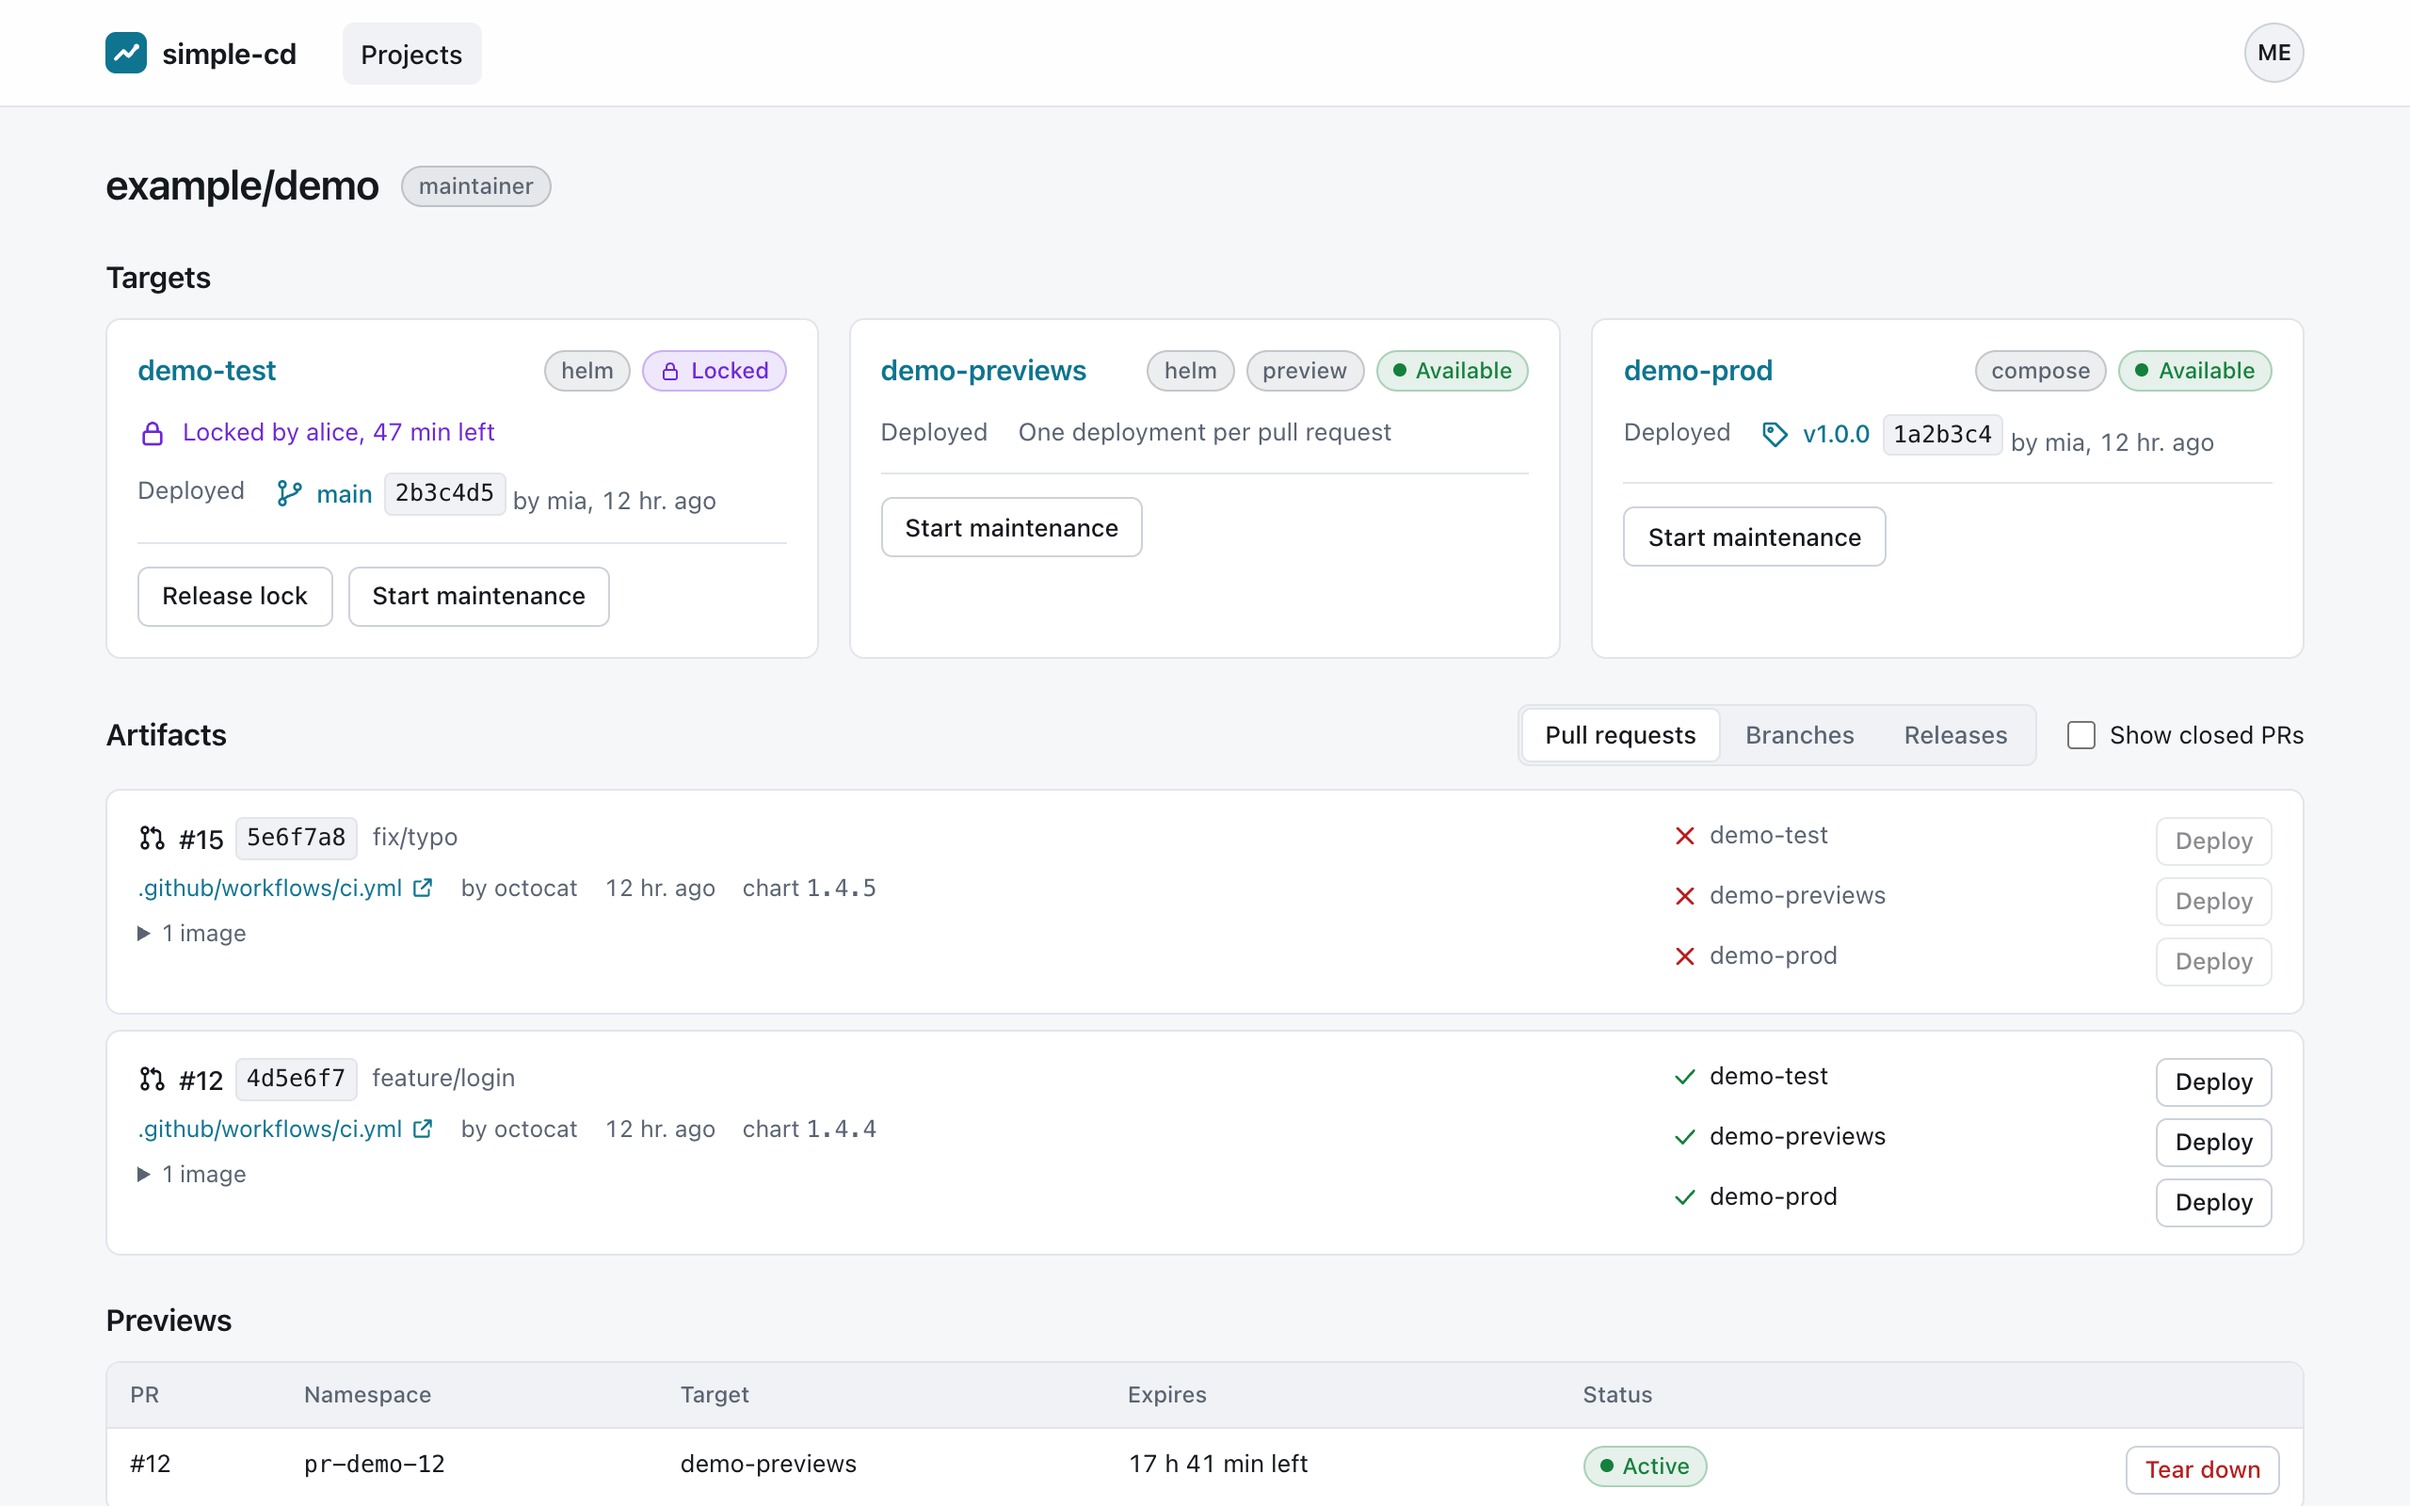
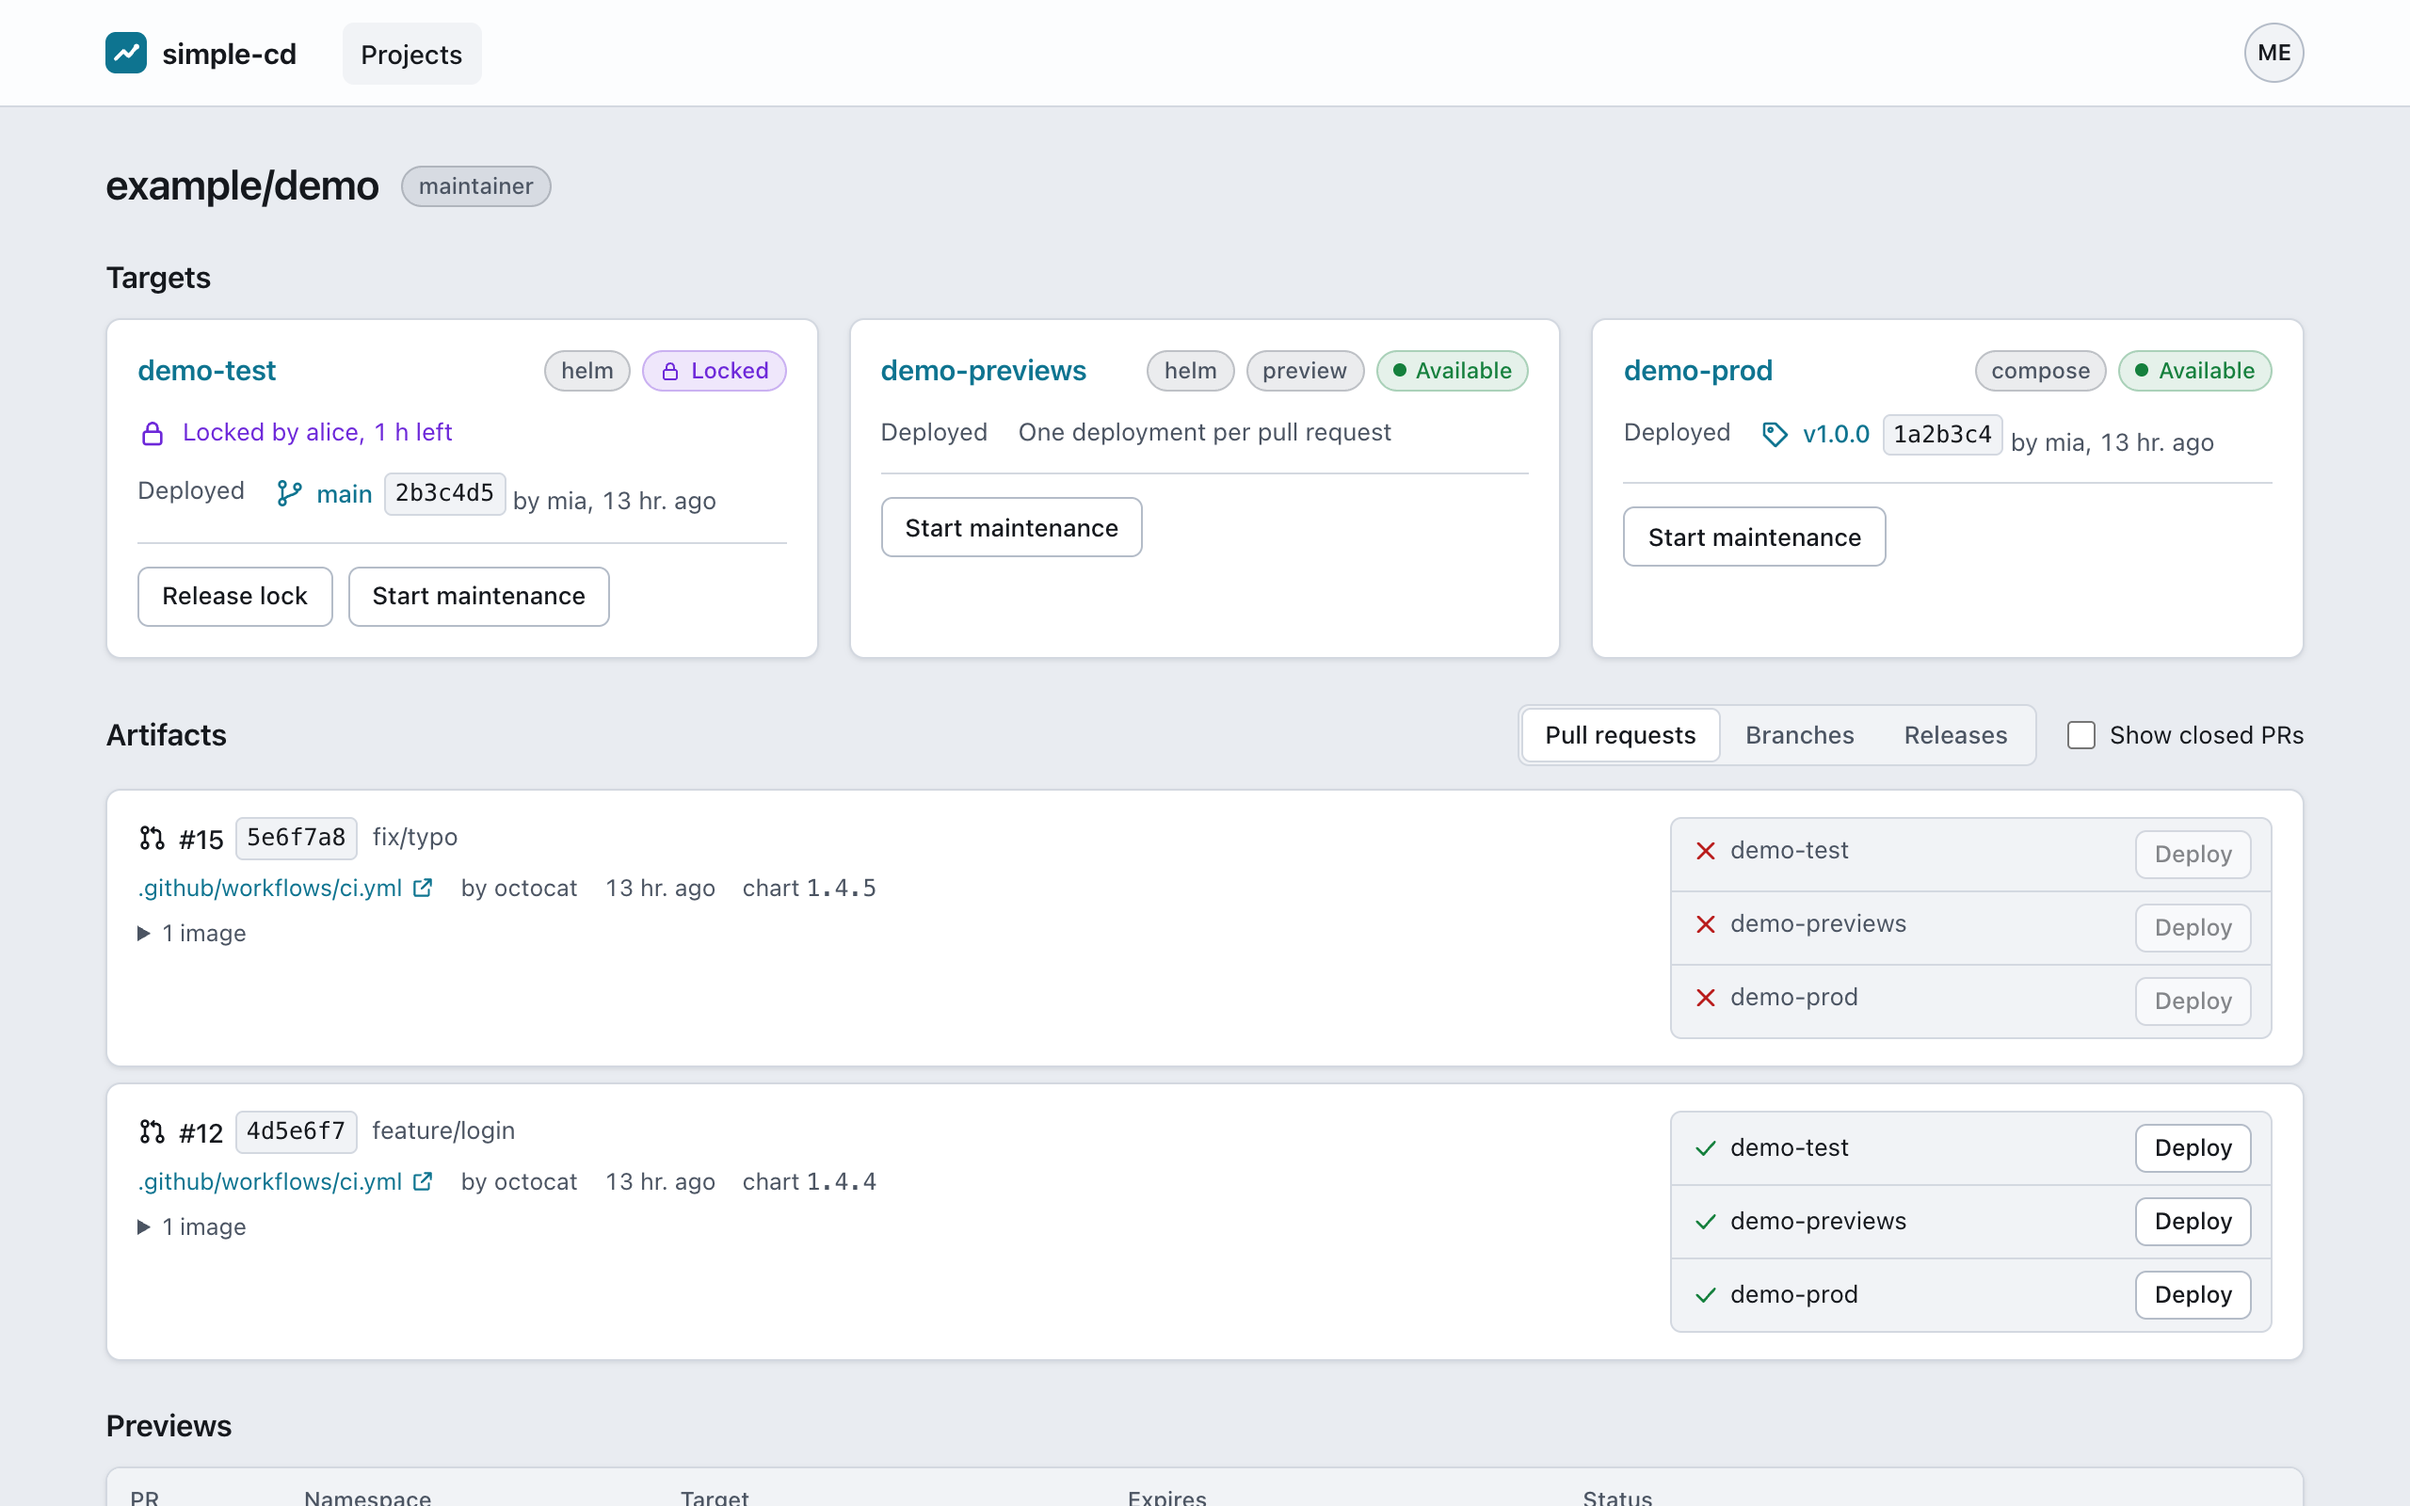
Raise light theme contrast, add dark screenshots and the capture script
The light theme gets a darker page background, stronger borders, card
shadows and a framed readiness list, so cards and the targets of an
artifact read as groups. web/scripts/screenshots.mjs (make screenshots)
takes every screenshot in light and dark; the README picks the one that
matches the reader's theme. The dev seed now locks demo-test for alice.

diff --git a/web/src/styles.css b/web/src/styles.css
@@ -1,13 +1,13 @@
 /* Design tokens. Light is the default; dark applies via data-theme or the OS setting. */
 :root {
   color-scheme: light;
-  --bg: #f6f7f9;
+  --bg: #e9ecf1;
   --surface: #ffffff;
-  --surface-2: #f0f2f5;
-  --border: #e2e5ea;
-  --border-strong: #cdd2da;
+  --surface-2: #f1f3f6;
+  --border: #d3d8e0;
+  --border-strong: #b4bcc8;
   --text: #15181d;
-  --text-muted: #5a6371;
+  --text-muted: #4b5462;
   --accent: #0e7490;
   --accent-hover: #0b5f76;
   --on-accent: #ffffff;
@@ -28,6 +28,7 @@
   --radius: 8px;
   --radius-sm: 6px;
   --shadow-pop: 0 8px 28px rgb(15 20 30 / 0.14), 0 1px 3px rgb(15 20 30 / 0.08);
+  --shadow-card: 0 1px 2px rgb(15 20 30 / 0.06), 0 1px 4px rgb(15 20 30 / 0.04);
   --font: system-ui, -apple-system, 'Segoe UI', Roboto, 'Helvetica Neue', Arial, sans-serif;
   --mono: ui-monospace, SFMono-Regular, Menlo, Consolas, 'Liberation Mono', monospace;
 }
@@ -54,6 +55,7 @@
     --red: #f87171;
     --gray: #9ba5b3;
     --shadow-pop: 0 10px 30px rgb(0 0 0 / 0.5), 0 1px 3px rgb(0 0 0 / 0.4);
+    --shadow-card: none;
   }
 }
 
@@ -78,6 +80,7 @@
   --red: #f87171;
   --gray: #9ba5b3;
   --shadow-pop: 0 10px 30px rgb(0 0 0 / 0.5), 0 1px 3px rgb(0 0 0 / 0.4);
+  --shadow-card: none;
 }
 
 /* Base */
@@ -373,6 +376,7 @@ svg { flex-shrink: 0; vertical-align: -0.15em; }
   background: var(--surface);
   border: 1px solid var(--border);
   border-radius: var(--radius);
+  box-shadow: var(--shadow-card);
   padding: 16px;
   min-width: 0;
 }
@@ -668,16 +672,20 @@ h1.target-title { font-size: 22px; }
   margin: 0;
   padding: 0;
   display: grid;
-  gap: 6px;
   align-content: start;
+  background: var(--surface-2);
+  border: 1px solid var(--border);
+  border-radius: var(--radius-sm);
 }
 .readiness-row {
   display: flex;
-  align-items: flex-start;
+  align-items: center;
   gap: 8px;
   flex-wrap: wrap;
   font-size: 13px;
+  padding: 6px 10px;
 }
+.readiness-row + .readiness-row { border-top: 1px solid var(--border); }
 .readiness-row .btn { margin-left: auto; }
 .ready {
   display: inline-flex;
@@ -713,6 +721,7 @@ h1.target-title { font-size: 22px; }
   border: 1px solid var(--border);
   border-radius: var(--radius);
   background: var(--surface);
+  box-shadow: var(--shadow-card);
 }
 .table {
   width: 100%;
@@ -755,6 +764,7 @@ details > summary { cursor: pointer; }
   border: 1px solid var(--border);
   border-radius: var(--radius);
   background: var(--surface);
+  box-shadow: var(--shadow-card);
 }
 .timeline li {
   display: flex;

diff --git a/dev/seed/main.go b/dev/seed/main.go
@@ -85,6 +85,19 @@ func main() {
 		st.Finish(ctx, d.ID, h.status, h.log, map[bool]string{true: "", false: "helm exited with status 1"}[h.status == store.StatusSucceeded])
 	}
 	st.TouchPreview(ctx, repo, 12, "demo-previews", "pr-demo-12", time.Now().Add(30*time.Hour))
+	// alice holds the lock on demo-test, so the UI shows a locked target.
+	err = st.WithTx(ctx, func(tx *store.Store) error {
+		ts, err := tx.LockTargetState(ctx, "demo-test")
+		if err != nil {
+			return err
+		}
+		until := time.Now().Add(time.Hour)
+		ts.LockHolder, ts.LockUntil = "alice", &until
+		return tx.SaveTargetState(ctx, ts)
+	})
+	if err != nil {
+		log.Fatal(err)
+	}
 	st.Audit(ctx, "seed", "dev.seed", repo, nil)
 	fmt.Println("seeded", repo)
 }

diff --git a/README.md b/README.md
@@ -27,11 +27,13 @@ simple-cd sees the artifacts they publish, checks that they are complete, and le
 
 ## Screenshots
 
+The UI follows the system theme; GitHub shows the screenshots in the theme you use.
+
 | Deploy with a configuration diff | Live executor log |
 |---|---|
-| ![Deploy dialog showing the Helm values diff and the confirmation checkbox](docs/assets/screenshots/deploy-dialog.png) | ![Deployment page with the log of helm upgrade](docs/assets/screenshots/deployment.png) |
+| <picture><source media="(prefers-color-scheme: dark)" srcset="docs/assets/screenshots/deploy-dialog-dark.png"><img alt="Deploy dialog showing the Helm values diff and the confirmation checkbox" src="docs/assets/screenshots/deploy-dialog.png"></picture> | <picture><source media="(prefers-color-scheme: dark)" srcset="docs/assets/screenshots/deployment-dark.png"><img alt="Deployment page with the log of helm upgrade" src="docs/assets/screenshots/deployment.png"></picture> |
 | **A locked target with its history** | **User menu with roles and theme** |
-| ![Target page showing the lock holder, deployments and lock history](docs/assets/screenshots/target.png) | ![User menu with name, roles, theme switch and logout](docs/assets/screenshots/user-menu.png) |
+| <picture><source media="(prefers-color-scheme: dark)" srcset="docs/assets/screenshots/target-dark.png"><img alt="Target page showing the lock holder, deployments and lock history" src="docs/assets/screenshots/target.png"></picture> | <picture><source media="(prefers-color-scheme: dark)" srcset="docs/assets/screenshots/user-menu-dark.png"><img alt="User menu with name, roles, theme switch and logout" src="docs/assets/screenshots/user-menu.png"></picture> |
 
 ## How it works
 

diff --git a/docs/contributors/testing.md b/docs/contributors/testing.md
@@ -108,6 +108,18 @@ python3 docs/architecture/uml/diagrams.py   # structural UML views (needs the dr
 docs/architecture/diagrams/render.sh       # sequence and state diagrams (PlantUML in Docker)
 ```
 
+### Screenshots
+
+The screenshots in `docs/assets/screenshots` come from `web/scripts/screenshots.mjs`, in light and dark (`-dark.png`):
+
+```sh
+make dev-up dev-seed run   # demo data, alice holds the lock on demo-test for one hour
+make e2e-up e2e            # a real deployment log and audit log
+make screenshots           # drives the installed Google Chrome with playwright-core
+```
+
+Retake them when the UI changes, and look at every image before you commit it.
+
 The docs site builds with GitHub Pages on every push to `main` that touches `docs/` (`.github/workflows/pages.yml`).
 To preview it locally, run the same Jekyll build in Docker:
 

diff --git a/CHANGELOG.md b/CHANGELOG.md
@@ -24,5 +24,9 @@ The format is based on [Keep a Changelog](https://keepachangelog.com/en/1.1.0/),
 - Helm chart for simple-cd, container images for the server and both executors, CI.
 - Documentation site with UML diagrams.
 - End-to-end test in a kind cluster with Vault, Keycloak, a local registry and a fake GitHub API (`make e2e-up e2e`), run in CI.
-- Screenshots of the UI in the README and the user and admin docs.
+- Screenshots of the UI in light and dark, in the README and the user and admin docs, taken with `make screenshots`.
+
+### Changed
+
+- Light theme: darker page background, stronger borders and card shadows, and a framed readiness list per artifact, so cards and the targets of an artifact read as groups.
 - `SIMPLECD_REGISTRY_PLAIN_HTTP` for registries without TLS in test setups, and `extraEnv` in the Helm chart.
